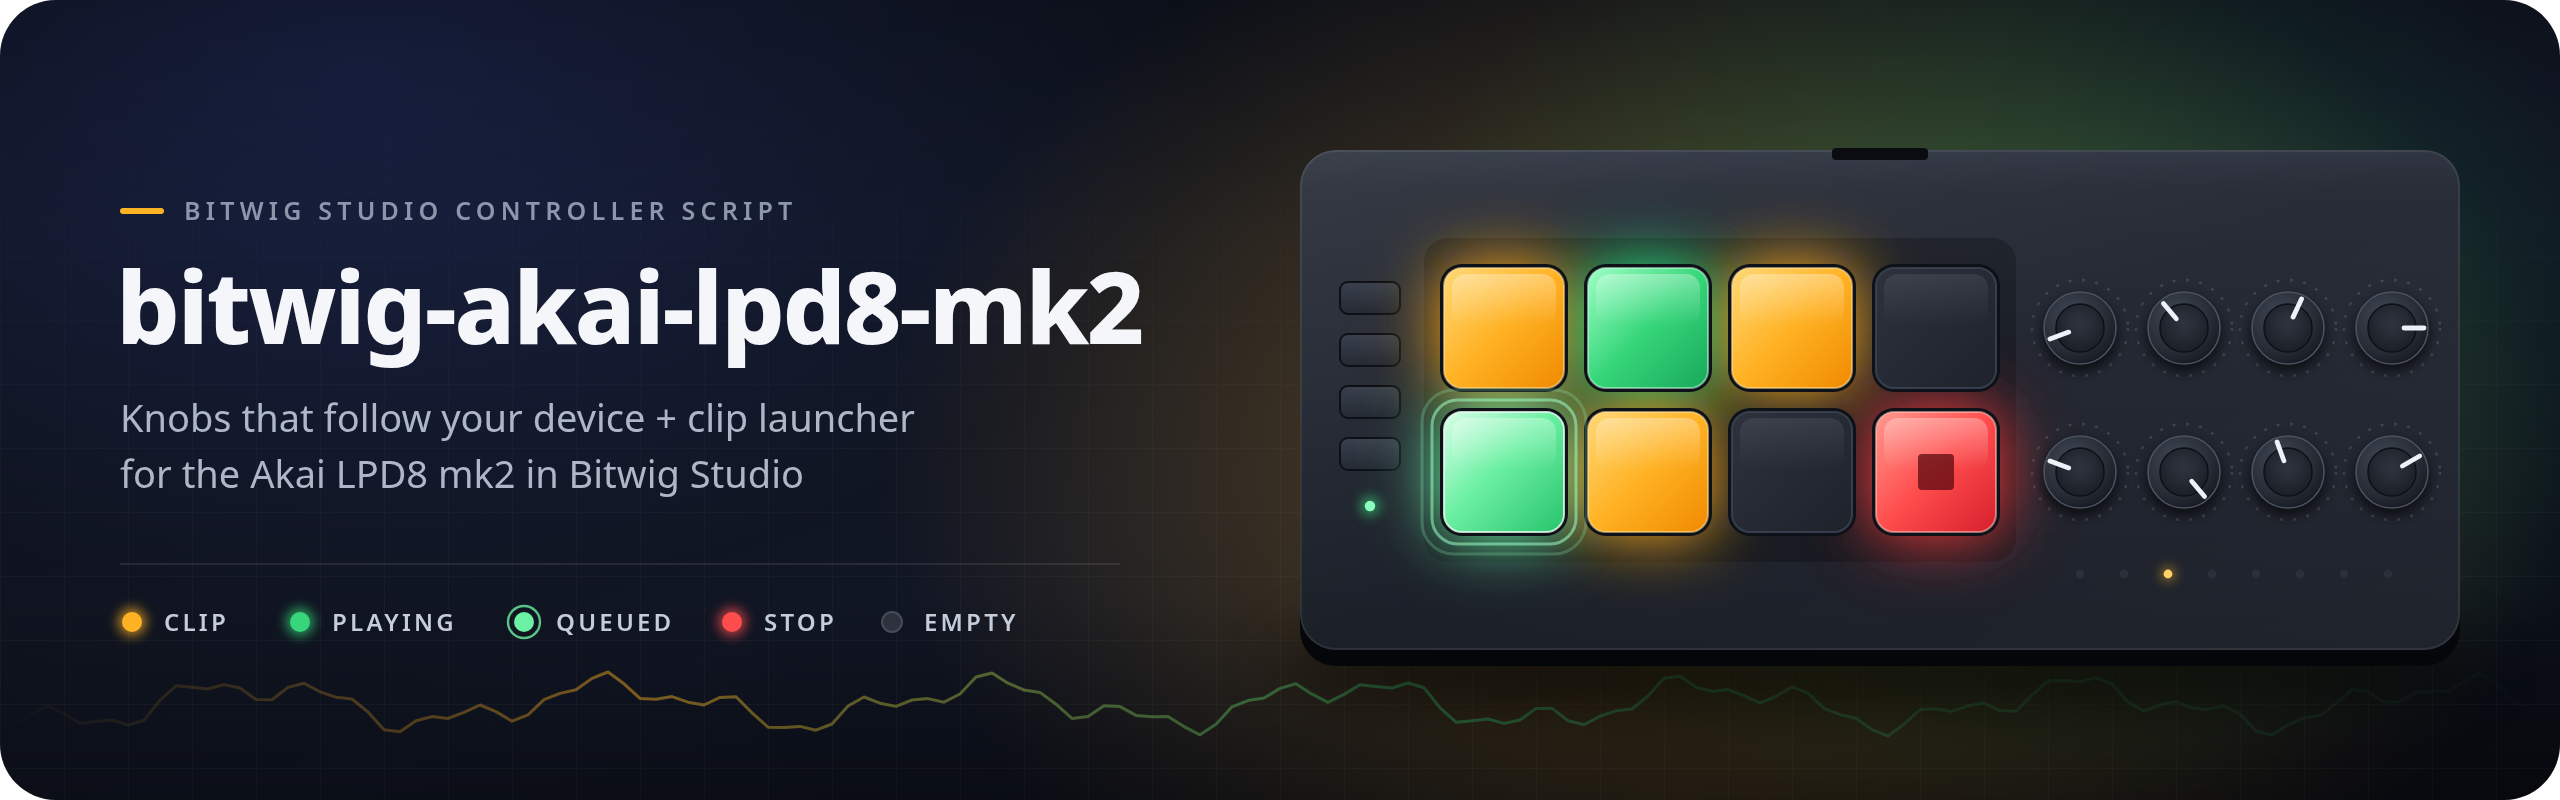
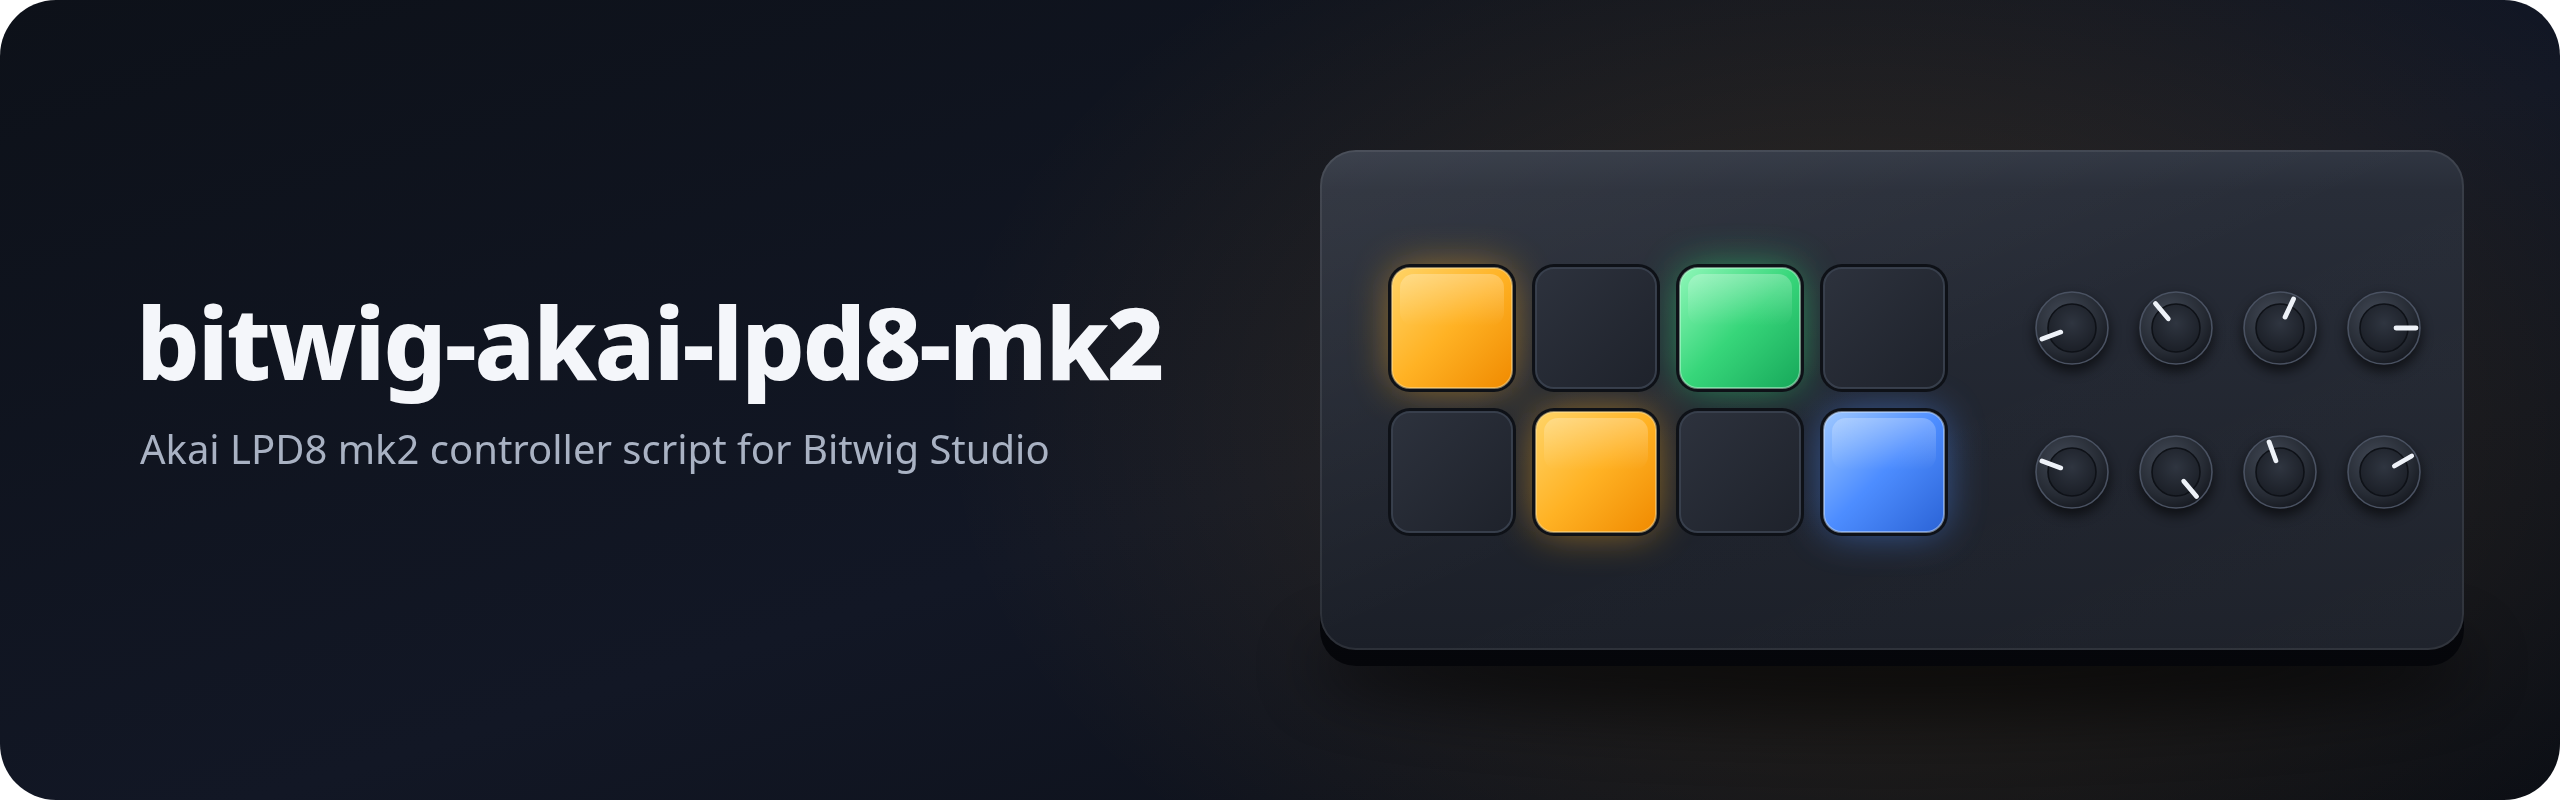
Simplify header image

diff --git a/README.md b/README.md
@@ -1,5 +1,5 @@
 <p align="center">
-  <img src="assets/header.png" alt="bitwig-akai-lpd8-mk2: knobs that follow your device, plus a clip launcher, for the Akai LPD8 mk2 in Bitwig Studio" width="100%">
+  <img src="assets/header.png" alt="bitwig-akai-lpd8-mk2: Akai LPD8 mk2 controller script for Bitwig Studio" width="100%">
 </p>
 
 <p align="center">
